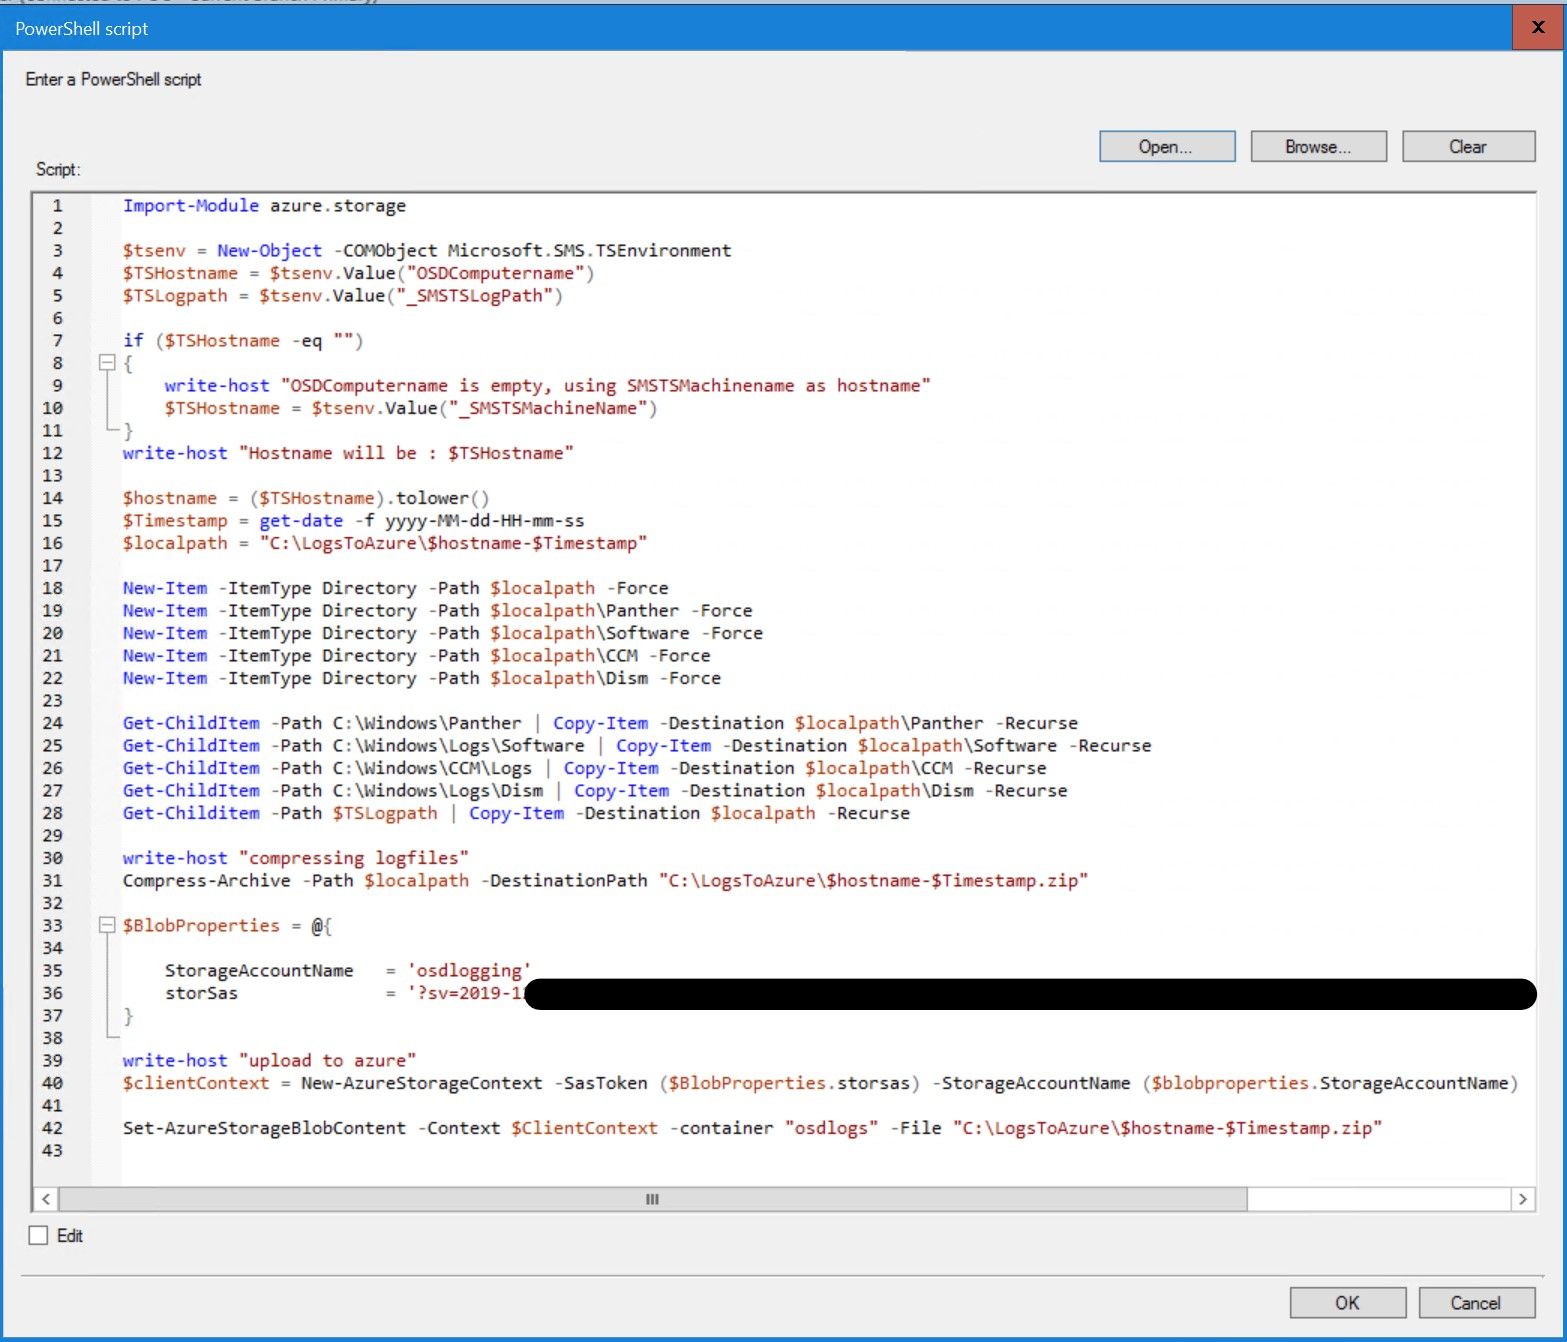
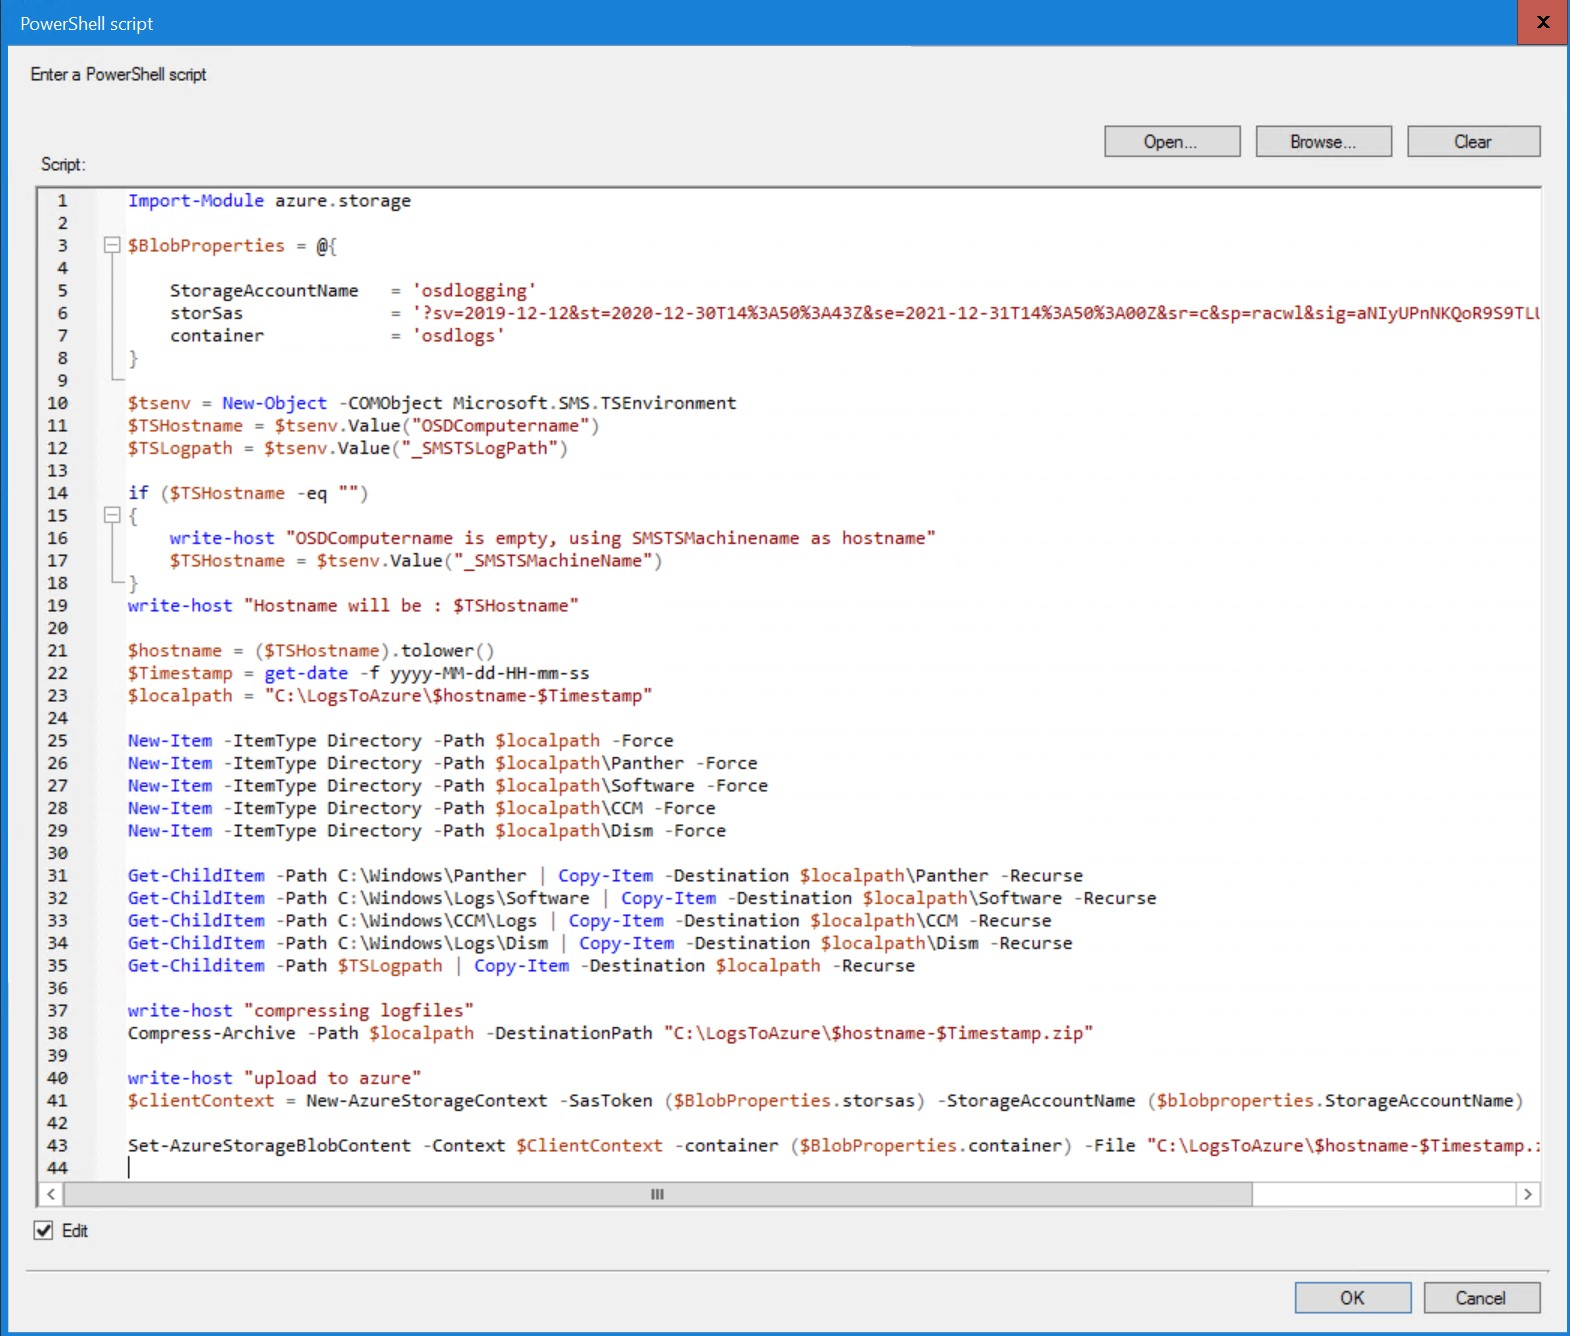
blog post updates
updates to scripts

Changed region(s): [[0.0, 0.0, 1.0, 1.0], [0.7964, 0.9513, 1.0, 1.0]]

diff --git a/_posts/2020-12-30-Logging in the cloud - Part 1.md b/_posts/2020-12-30-Logging in the cloud - Part 1.md
@@ -122,6 +122,13 @@ The script :
 ~~~ powershell
 Import-Module azure.storage
 
+$BlobProperties = @{
+
+    StorageAccountName   = 'osdlogging'
+    storSas              = '?sv=2019-12-12<<<rest of key is censored>>>'
+    container            = 'osdlogs'
+}
+
 $tsenv = New-Object -COMObject Microsoft.SMS.TSEnvironment
 $TSHostname = $tsenv.Value("OSDComputername")
 $TSLogpath = $tsenv.Value("_SMSTSLogPath")
@@ -152,22 +159,17 @@ Get-Childitem -Path $TSLogpath | Copy-Item -Destination $localpath -Recurse
 write-host "compressing logfiles"
 Compress-Archive -Path $localpath -DestinationPath "C:\LogsToAzure\$hostname-$Timestamp.zip"
 
-$BlobProperties = @{
-
-    StorageAccountName   = 'osdlogging'
-    storSas              = '?sv=2019-12-12<<<rest of key is censored>>>'
-}
-
 write-host "upload to azure"
 $clientContext = New-AzureStorageContext -SasToken ($BlobProperties.storsas) -StorageAccountName ($blobproperties.StorageAccountName)
 
-Set-AzureStorageBlobContent -Context $ClientContext -container "osdlogs" -File "C:\LogsToAzure\$hostname-$Timestamp.zip"
+Set-AzureStorageBlobContent -Context $ClientContext -container ($BlobProperties.container) -File "C:\LogsToAzure\$hostname-$Timestamp.zip"
 ~~~
 
-You could pretty much use the above script as-is. You just have to adjust 2 things to for the azure storage.
+You could pretty much use the above script as-is. You just have to adjust the variables for the azure storage.
 
-1) On line 36, replace the content of the storSAS variable with your "Write" SAS-key  
-2) In the last line (42) replace the name of the container with the one you created in our preparation step
+1) On line 5, set the StorageAccountName to the containername we created in the azure portal
+2) On line 6, replace the content of the storSAS variable with your "Write" SAS-key  
+3) On line 7, provide the name of the blob-container we created in our preparation step using the storage explorer tool.
 
 I used a "Run powershell script" step and added the script in-line in the task sequence
 
@@ -193,15 +195,16 @@ The following script will download your logfiles from azure, unpack them and cle
 ~~~ powershell
 Import-Module azure.storage
 
-if (!(test-path "C:\LogsFromAzure"))
-{
-    New-Item -ItemType Directory -Path "C:\LogsFromAzure"
-}
-
 $BlobProperties = @{
 
     StorageAccountName   = 'osdlogging'
     storSas              = '?sv=2019-12-12<<<rest of key is censored>>>'
+    container            = 'osdlogs'
+}
+
+if (!(test-path "C:\LogsFromAzure"))
+{
+    New-Item -ItemType Directory -Path "C:\LogsFromAzure"
 }
 
 $clientContext = New-AzureStorageContext -SasToken ($BlobProperties.storsas) -StorageAccountName ($blobproperties.StorageAccountName)
@@ -211,7 +214,7 @@ $files = Get-AzureStorageBlob -Container "osdlogs" -Context $clientContext
 foreach ($file in $files)
 {
     write-host $file.name
-    Get-AzureStorageBlobContent -Destination "C:\LogsFromAzure" -Container "osdlogs" -Context $clientContext -Blob $file.name
+    Get-AzureStorageBlobContent -Destination "C:\LogsFromAzure" -Container ($BlobProperties.container) -Context $clientContext -Blob $file.name
    
     write-host "expanding logfiles"
     Expand-Archive -Path "C:\LogsFromAzure\$($file.name)" -DestinationPath "C:\LogsFromAzure"
@@ -219,17 +222,18 @@ foreach ($file in $files)
     write-host "cleaning up"
     Remove-Item -Path "C:\LogsFromAzure\$($file.name)" -Force
 
-    Remove-AzureStorageBlob -Container "osdlogs" -Context $clientContext -Blob $file.name
+    Remove-AzureStorageBlob -Container ($BlobProperties.container) -Context $clientContext -Blob $file.name
   
 }
 ~~~
 
 Same story as with the previous script, make the following adjustments :  
 
-1) on line 11, replace the content of the storSAS variable with your "DELETE" SAS-key (the 2nd SAS key we created)  
-2) on lines 16 and 29, replace the name of the container with the one you created in our preparation step
+1) On line 5, set the StorageAccountName to the containername we created in the azure portal
+2) On line 6, replace the content of the storSAS variable with your "DELETE" SAS-key (the 2nd SAS key we created) 
+3) On line 7, provide the name of the blob-container we created in our preparation step using the storage explorer tool.
 
-If you then run this script, it should download the logs from Azure, expand the archive, delete the zipfile and clean up Azure.
+If you then run this script, it should download the logs from Azure, expand the archive, delete the zipfile and clean up your Azure blob container.
 
 As a final step, you could run this script on a schedule so that any log files get downloaded automatically so that they are ready when you need them!
 

diff --git a/_posts/2019-01-11-Impact of new SUP settings.md b/_posts/2019-01-11-Impact of new SUP settings.md
@@ -1,0 +1,21 @@
+While checking all the software update configuration options due to the issue I encountered with the other changes, I also noticed a new option being available in the Supersedence Rules section of the Software Update Point Properties
+
+![alt]({{ site.url }}{{ site.baseurl }}/images/SUP1.jpg)
+
+As you can see, we can now individually control supersedence behavior for feature and non-feature updates. I assume most of you still use task sequences for feature upgrades, so the impact of this change is currently still very limited I think.
+
+# Possible impact of changes #
+
+When we configure a software update process, we usually create different rings/waves. An example of such a process can be like this :
+
+Collection Name | Software available time | Installation Deadline
+---|---|---
+Technical Pilot | ADR Run time (ADR) | ADR + 1 day
+Business Pilot | ADR + 7 days | ADR + 10 days
+Production Wave 1 | ADR + 14 days | ADR + 28 days
+Production Wave 2 | ADR + 16 days | ADR + 30 days
+
+Since I live in Europe, we use the "offset" feature to evaluate the ADR 1 day after patch tuesday (in the evening).  
+
+The result here is that the people in Production wave 2 will have their software updates enforced 31 days after patch tuesday at 9PM,so basically the installation starts on the 32nd day after patch tuesday.  
+At least in most environments I encounter, most end users will still wait for the deadline to have their software updates installed, although they had 2 weeks notice...
